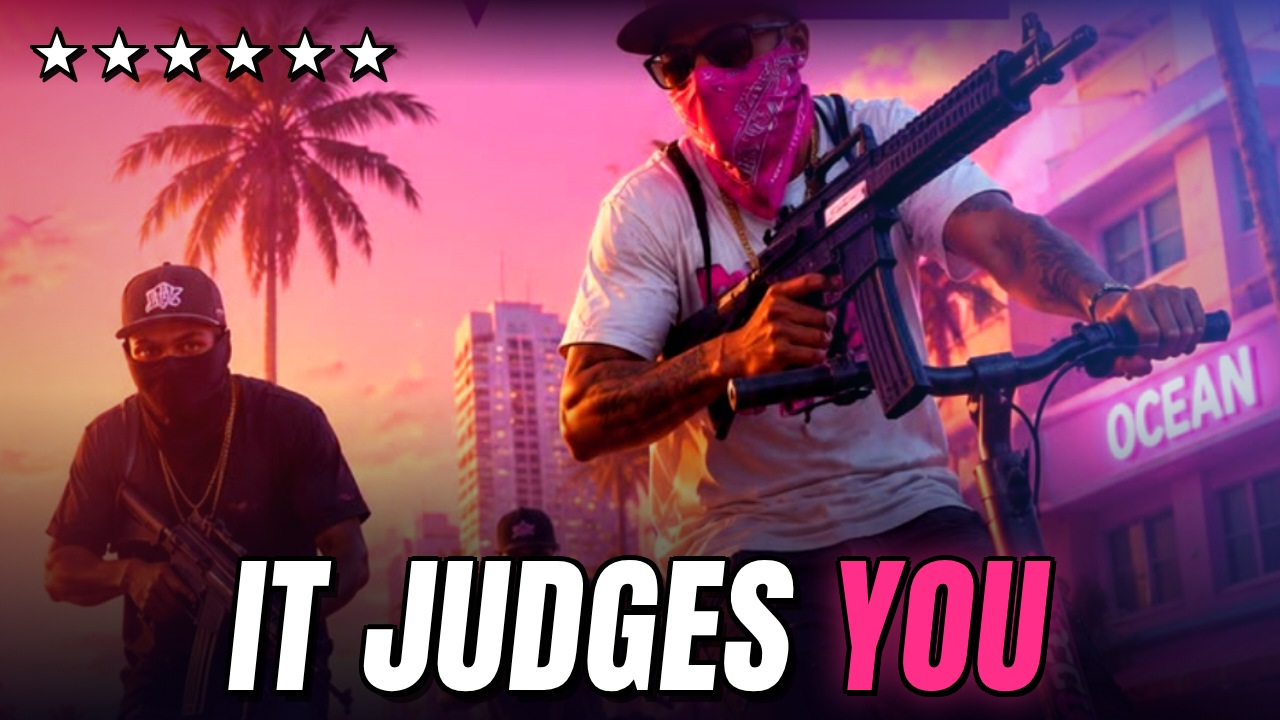
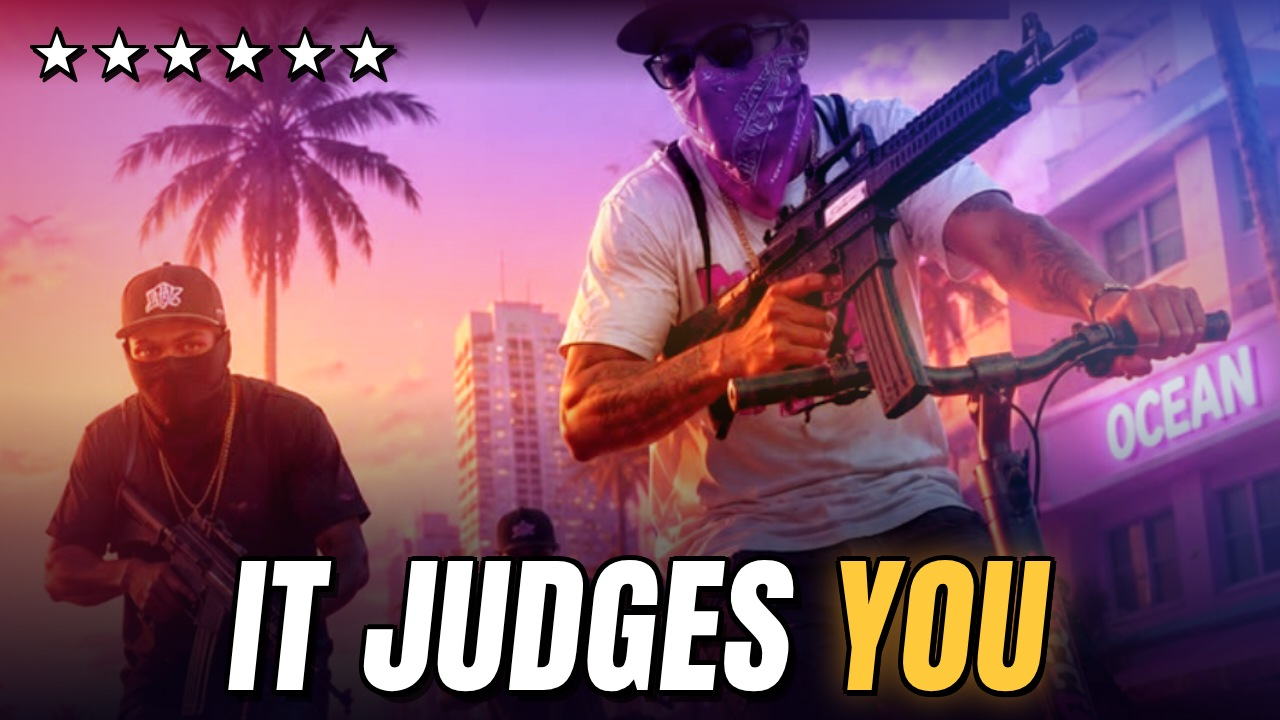
Thumbnail E: GTA-style sunset grade (less pink), gold YOU
Claude-Session: https://claude.ai/code/session_01DX4dbwA3bNBQnMT2RJeEkt

diff --git a/remotion-overlays/src/gta6/Thumbs014.tsx b/remotion-overlays/src/gta6/Thumbs014.tsx
@@ -191,7 +191,11 @@ export const Thumb014E: React.FC = () => {
   return (
     <AbsoluteFill style={{ background: C.night, overflow: "hidden" }}>
       <Img src={staticFile(USER)} style={{ position: "absolute", width: 1170 * s, height: 1546 * s, left: -X0 * s, top: -Y0 * s,
-        filter: "saturate(1.25) contrast(1.12) brightness(1.02)" }} />
+        filter: "hue-rotate(-14deg) saturate(1.15) contrast(1.12) brightness(1.03)" }} />
+      {/* GTA 6 sunset grade: blue-violet sky up top, orange-gold toward the horizon (less pink overall) */}
+      <AbsoluteFill style={{ background: "linear-gradient(180deg, #2A3A8C 0%, #4B3A9A 18%, rgba(120,70,160,0) 42%)", mixBlendMode: "color", opacity: 0.55 }} />
+      <AbsoluteFill style={{ background: "linear-gradient(180deg, rgba(255,150,60,0) 18%, #FF9A3C 40%, #FFB35A 55%, rgba(255,150,60,0) 75%)", mixBlendMode: "soft-light", opacity: 0.85 }} />
+      <AbsoluteFill style={{ background: "linear-gradient(180deg, rgba(255,170,80,0) 25%, rgba(255,140,50,0.22) 45%, rgba(255,140,50,0) 65%)", mixBlendMode: "screen" }} />
       {/* vignette + bottom shade for the text */}
       <AbsoluteFill style={{ background: "radial-gradient(ellipse at 50% 40%, rgba(0,0,0,0) 45%, rgba(0,0,0,0.55) 100%)" }} />
       <AbsoluteFill style={{ background: "linear-gradient(0deg, rgba(8,2,20,0.92) 0%, rgba(8,2,20,0.55) 26%, rgba(8,2,20,0) 46%)" }} />
@@ -211,8 +215,8 @@ export const Thumb014E: React.FC = () => {
       <div style={{ position: "absolute", left: 0, right: 0, bottom: 18, textAlign: "center", transform: "skewX(-6deg)" }}>
         <span style={{ fontFamily: ANTON, fontSize: 150, lineHeight: 1, color: "#FFFFFF", letterSpacing: 2,
           textShadow: "0 0 0 #000, 6px 6px 0 #000, -4px -4px 0 #000, 4px -4px 0 #000, -4px 4px 0 #000, 0 6px 0 #000, 0 -5px 0 #000, 6px 0 0 #000, -5px 0 0 #000, 10px 12px 0 rgba(0,0,0,0.6)" }}>IT JUDGES </span>
-        <span style={{ fontFamily: ANTON, fontSize: 150, lineHeight: 1, color: "#FF2E88", letterSpacing: 2,
-          textShadow: "6px 6px 0 #000, -4px -4px 0 #000, 4px -4px 0 #000, -4px 4px 0 #000, 0 6px 0 #000, 0 -5px 0 #000, 6px 0 0 #000, -5px 0 0 #000, 0 0 40px rgba(255,46,136,0.9)" }}>YOU</span>
+        <span style={{ fontFamily: ANTON, fontSize: 150, lineHeight: 1, color: "#FFC93C", letterSpacing: 2,
+          textShadow: "6px 6px 0 #000, -4px -4px 0 #000, 4px -4px 0 #000, -4px 4px 0 #000, 0 6px 0 #000, 0 -5px 0 #000, 6px 0 0 #000, -5px 0 0 #000, 0 0 40px rgba(255,170,40,0.85)" }}>YOU</span>
       </div>
     </AbsoluteFill>
   );
